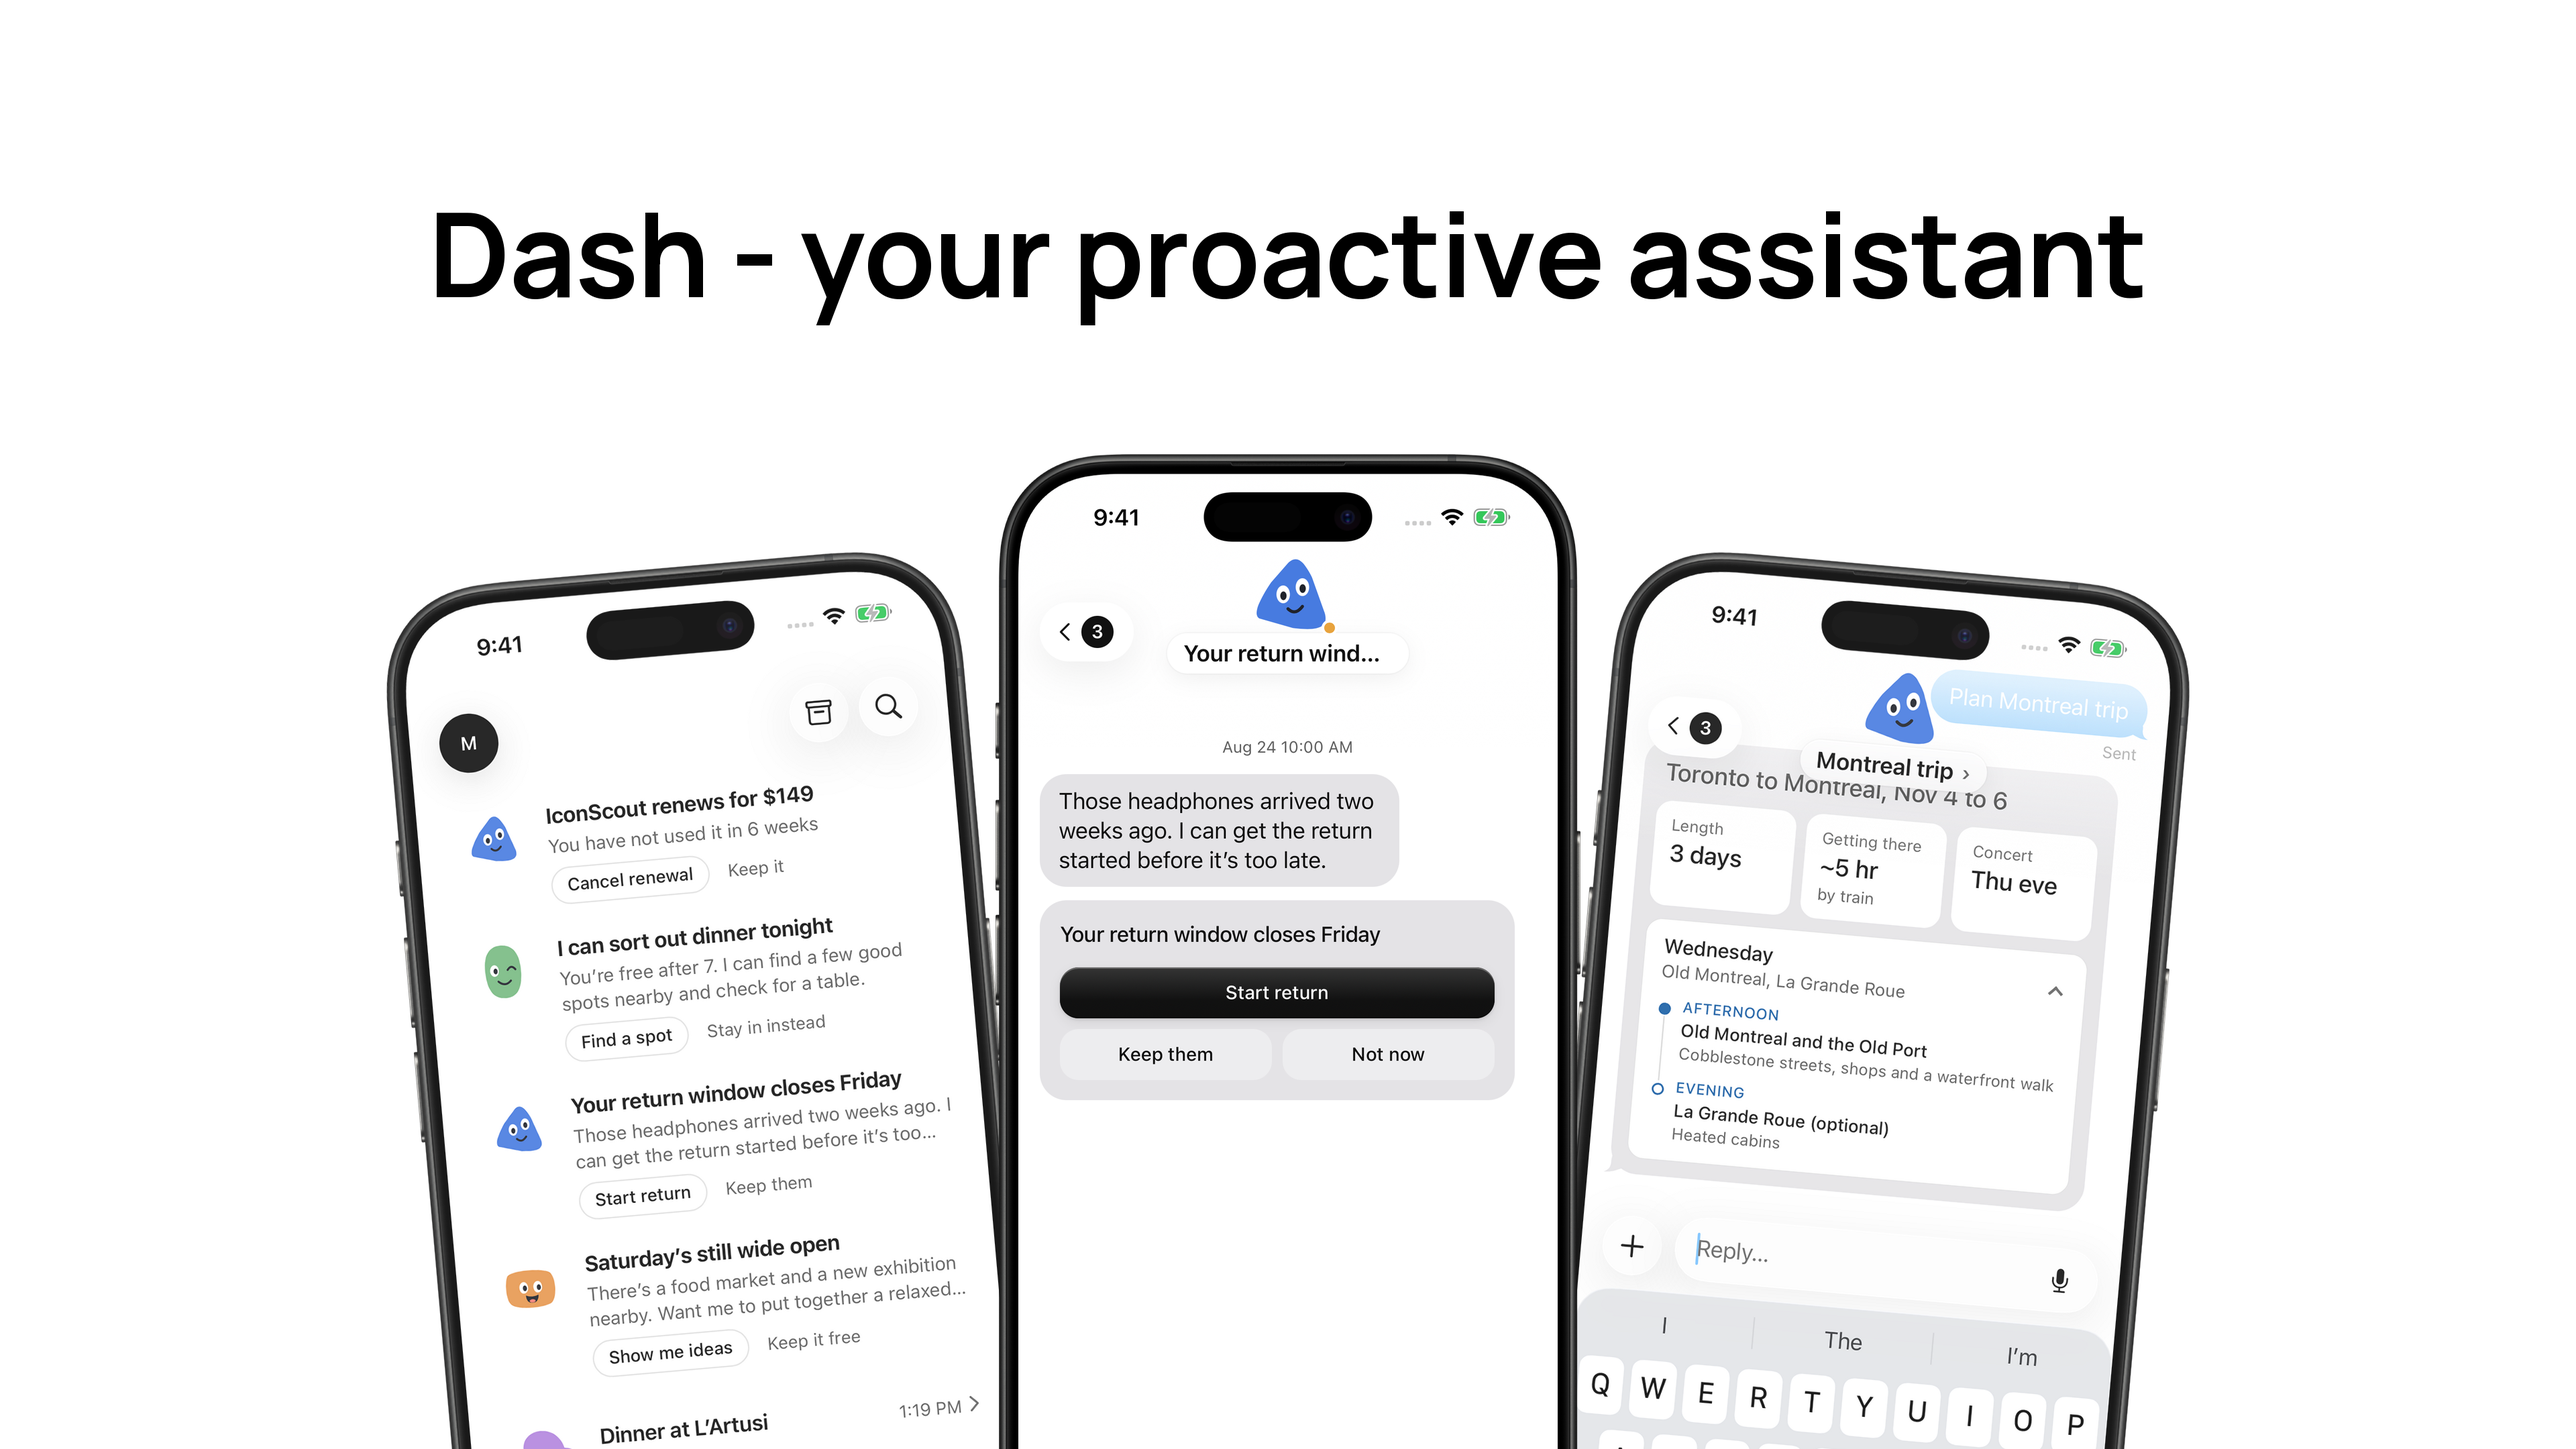
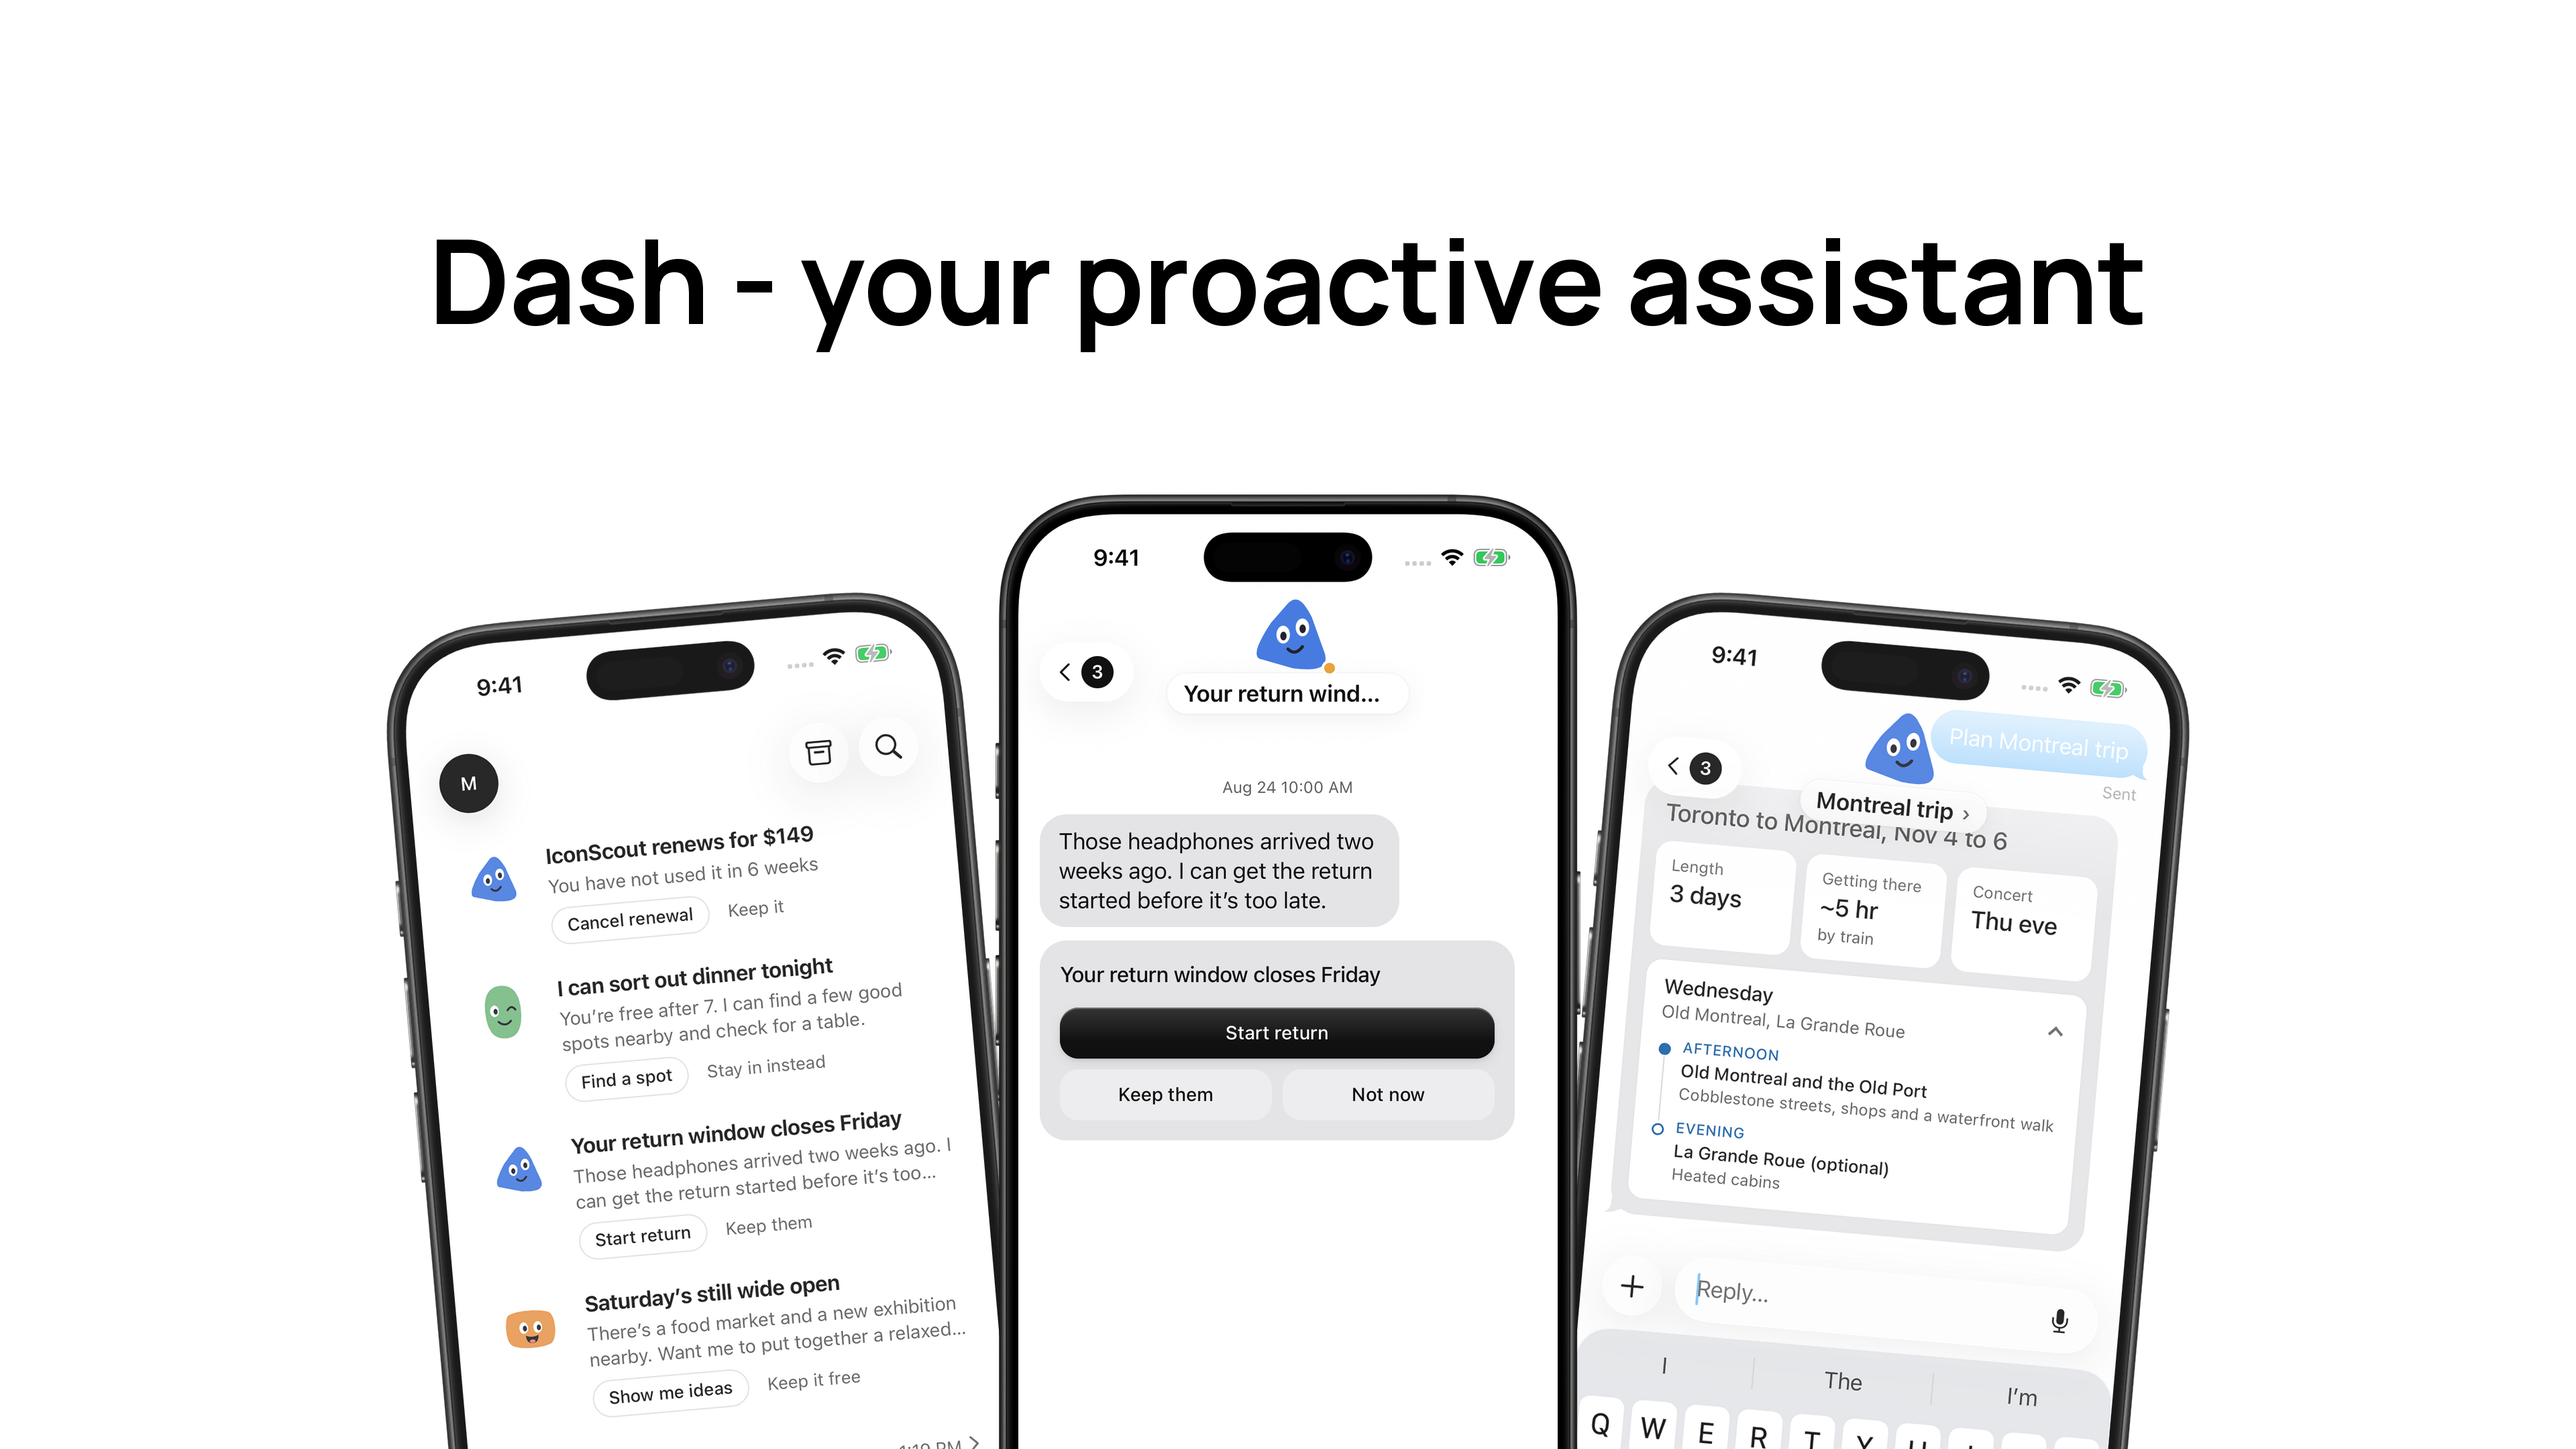
Adjust cover headline and phone positioning

diff --git a/docs/images/github-cover/compose-real.py b/docs/images/github-cover/compose-real.py
@@ -24,7 +24,7 @@ box = draw.textbbox((0, 0), headline, font=font)
 advances = [font.getlength(headline[i:i+2]) - font.getlength(headline[i+1]) + args.tracking for i in range(len(headline)-1)] + [font.getlength(headline[-1])]
 x = (3840 - sum(advances)) / 2
 for char, advance in zip(headline, advances):
-    draw.text((x, 315 - box[1]), char, fill='black', font=font)
+    draw.text((x, 355 - box[1]), char, fill='black', font=font)
     x += advance
 
 def captured_phone(filename, width, tilt, opacity):
@@ -49,9 +49,9 @@ def captured_phone(filename, width, tilt, opacity):
 # All bottoms extend beyond the canvas and are clipped at the same flat edge.
 # Only the outer captures receive the slight opacity reduction requested.
 for name, center_x, top, width, angle, alpha in [
-    ('feed.png', 1070, 790, 900, 5, .90),
-    ('montreal-keyboard.png', 2770, 790, 900, -5, .90),
-    ('proactive-chat.png', 1920, 660, 900, 0, 1),
+    ('feed.png', 1070, 850, 900, 5, .90),
+    ('montreal-keyboard.png', 2770, 850, 900, -5, .90),
+    ('proactive-chat.png', 1920, 720, 900, 0, 1),
 ]:
     phone = captured_phone(name, width, angle, alpha)
     canvas.alpha_composite(phone, (round(center_x - phone.width / 2), top))
